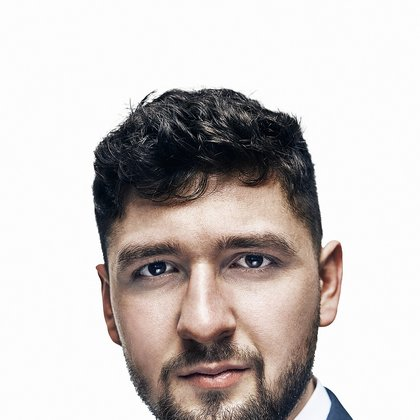
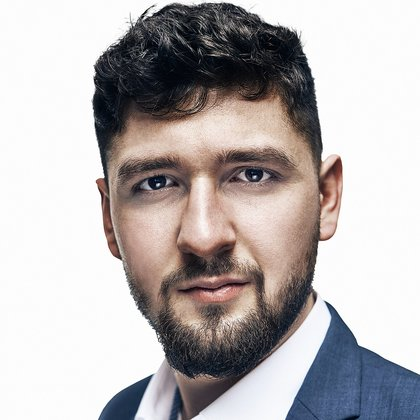
Opravene vyrezy fotek, odkazy vsech poslancu z HP na profily

diff --git a/web/hp.js b/web/hp.js
@@ -28,8 +28,7 @@ const BASE = {ANO:"ANO",STAN:"STAN",ODS:"SPOLU",TOP09:"SPOLU","KDUČSL":"SPOLU",
 const MES = ["led","úno","bře","dub","kvě","čvn","čvc","srp","zář","říj","lis","pro"];
 
 let POLLS = [], KRAJE = null, CUR = [], AVG = {}, SEATS = {}, N = {}, HLAVY = {}, POSLANCI = {};
-// Politici s vlastní stránkou na ceske-volby.cz/politici/<slug>/
-const PROFILY = new Set(["andrej-babis", "petr-macinka", "tomio-okamura", "petr-fiala", "alena-schillerova", "vit-rakusan", "martin-kupka", "filip-turek"]);
+// Každý poslanec má od 23. 10. 2026 stránku na ceske-volby.cz/politici/<slug>/
 const S = {m1:"avg", v2:"parties", per:"volby", showAvg:true, ag:new Set(), hide:new Set(), sel:new Set(VLADA), c1:null, c2:null};
 
 const $ = id => document.getElementById(id);
@@ -210,7 +209,7 @@ function renderSeats() {
   $("sn").innerHTML = ks.map(k => {
     const os = lidi ? (POSLANCI[k] || []).slice(0, SV[k]) : [];
     return os.map(p => {
-      const url = PROFILY.has(p.slug) ? `https://www.ceske-volby.cz/politici/${p.slug}/` : (p.psp || "");
+      const url = p.slug ? `https://www.ceske-volby.cz/politici/${p.slug}/` : (p.psp || "");
       const tit = `${p.jmeno}, ${nm(k)}${p.funkce ? ", " + p.funkce : ""}`;
       const img = `<img src="poslanci/${p.soubor}" alt="${esc(p.jmeno)}" loading="lazy">`;
       return url ? `<a class="os" target="_top" href="${esc(url)}" title="${esc(tit)}" style="border-color:${col(k)}">${img}</a>` : `<span class="os" title="${esc(tit)}" style="border-color:${col(k)}">${img}</span>`;
